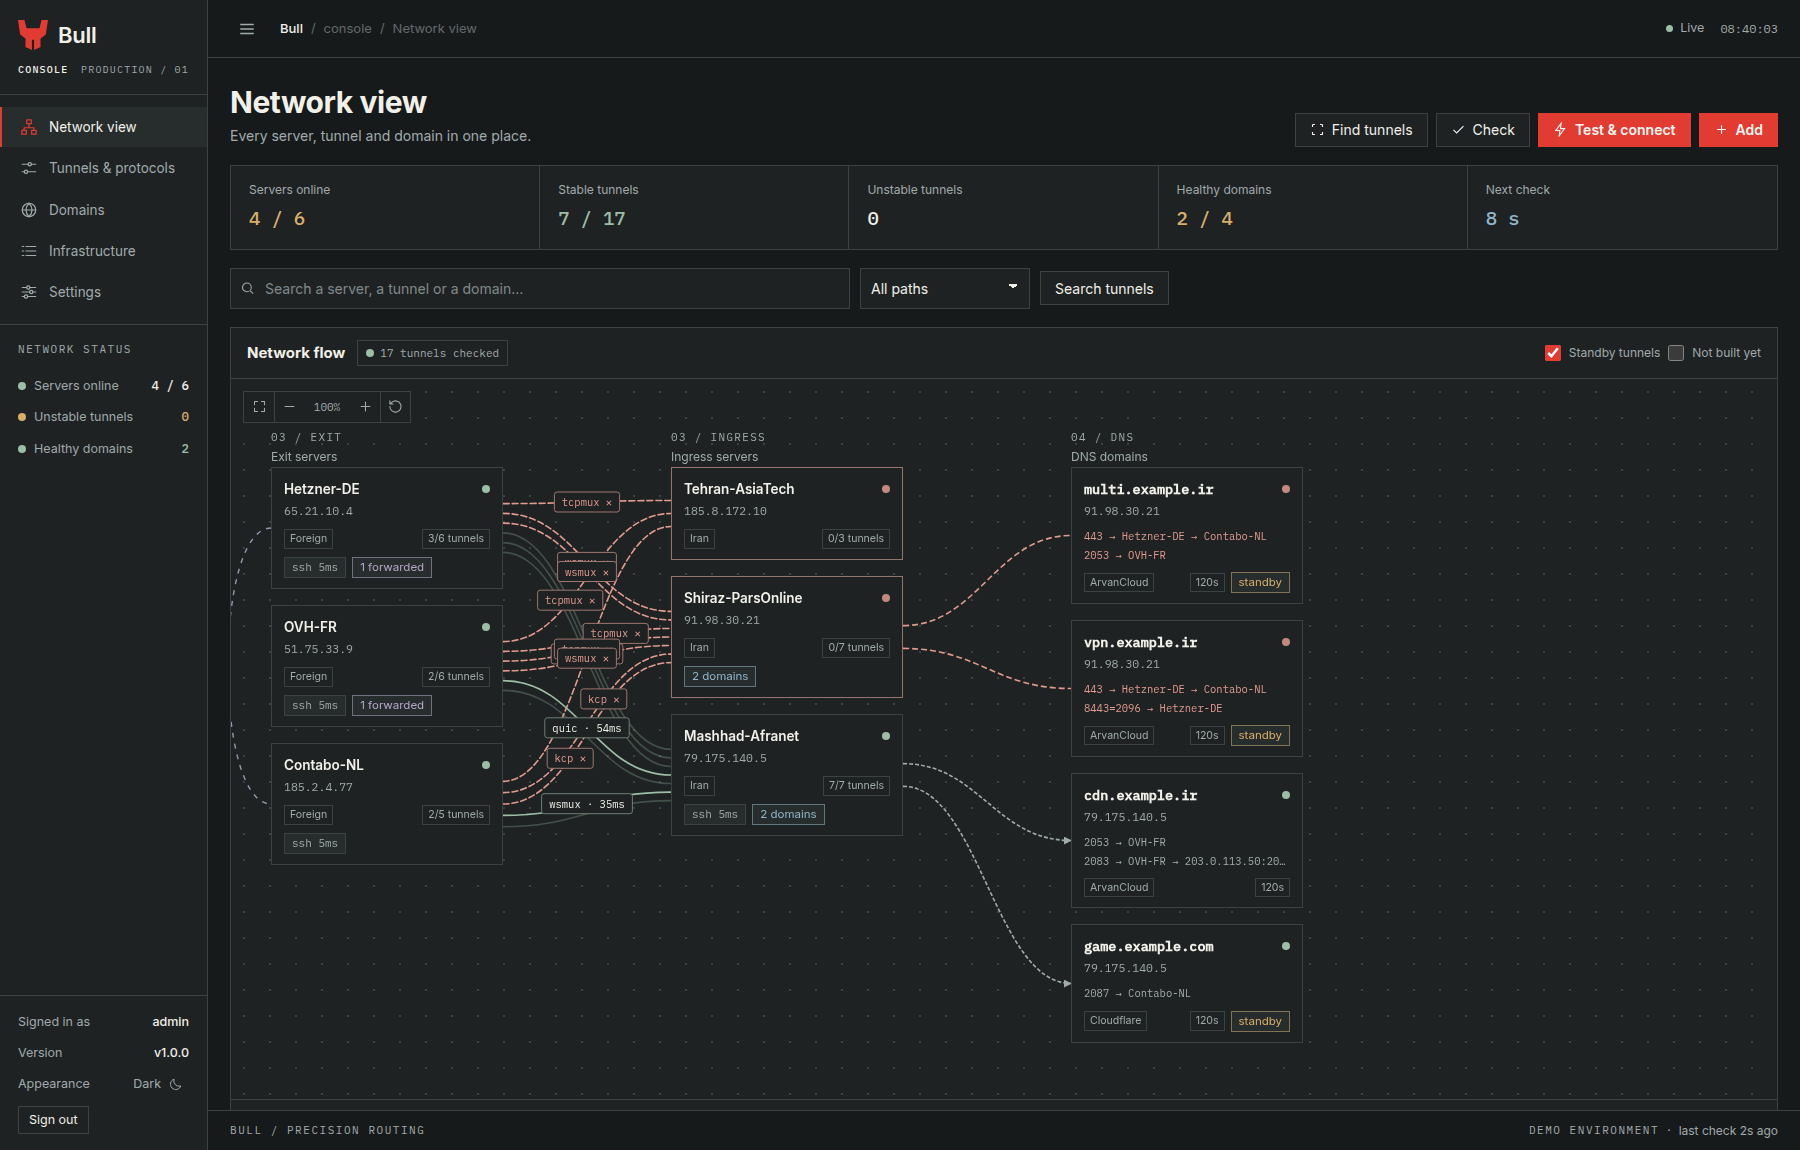
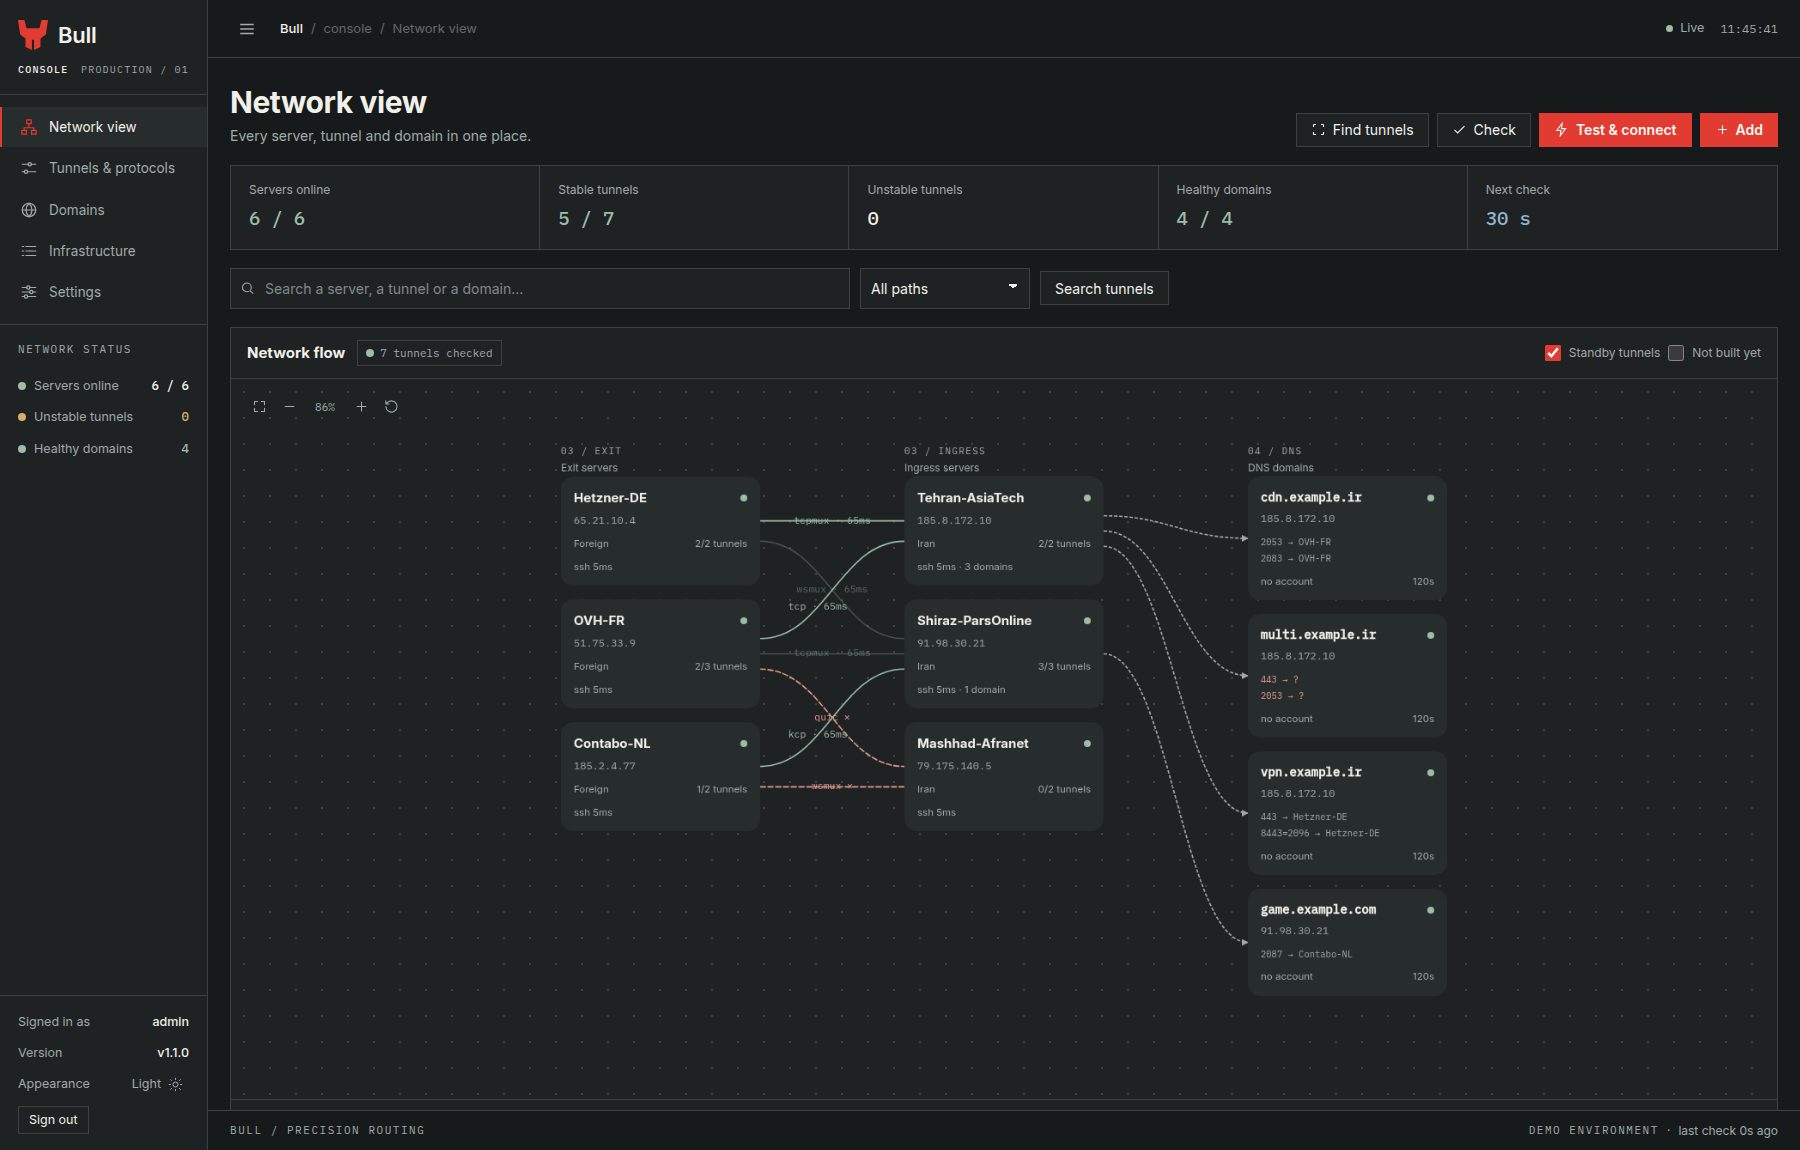
panel: the network graph is the type-1 design again
The graph of the network view is built from new-ui/type1/graphs.svg, in
the type-2 palette. The shell of the panel is type 2 — the sidebar, the
cards of the pages, the counters, the type scale — and the graph is the
one place where the older, softer shape is kept: a graph of moving nodes
reads better with soft cards than with sharp ones.

  * The cards are soft again: a rounded card with the name, the address
    and a quiet line of meta, the state dot in its corner, and a soft tint
    on the card that is picked and on the ones the path goes through. The
    rows of chips are gone: the meta is text, the way the type-1 card
    has it.
  * The labels on the wires are plain text in the colour of the state,
    dimmed for the standby tunnels; the wire that is picked gets a pill
    around its label, as in the type-1 design.
  * Every wire carries its label now, the healthy ones included.
  * The zoom tools sit on the canvas, plain, in a row.

The screenshots in docs/ were taken again.

diff --git a/bulltunnel/static/style.css b/bulltunnel/static/style.css
@@ -419,28 +419,37 @@ legend { color: var(--muted); font-size: 12px; padding: 0 6px; }
 .flow-cols .ct .n { font-family: var(--mono); font-size: 11px; letter-spacing: .12em; color: var(--muted); }
 .flow-cols .ct .t { display: block; }
 
+/* The cards of the graph follow the type-1 design (new-ui/type1/graphs.svg):
+   a soft, rounded card with the name, the address and a quiet line of meta.
+   The shell of the panel is type 2; the graph is the one place where the
+   older, softer shape is kept. */
 .fnode {
   position: absolute; width: 232px;
-  background: var(--surface); border: 1px solid var(--line);
-  padding: 10px 12px; display: grid; gap: 2px; cursor: pointer; overflow: hidden;
+  background: var(--surface-2); border: 1px solid transparent;
+  border-radius: 14px; padding: 12px 14px;
+  display: grid; gap: 3px; cursor: pointer; overflow: hidden;
   transition: border-color .12s, opacity .15s, background .12s;
 }
-.fnode:hover { border-color: var(--muted); }
-.fnode.sel { border-color: var(--brand); box-shadow: inset 0 0 0 1px var(--brand); }
+.fnode:hover { border-color: var(--line); }
+/* the card that is picked, and the ones the path goes through, are tinted:
+   a soft colour, never a border of another colour */
+.fnode.sel { border-color: color-mix(in srgb, var(--brand) 35%, transparent); background: color-mix(in srgb, var(--brand) 9%, var(--surface-2)); }
+.fnode.hl { border-color: color-mix(in srgb, var(--brand) 25%, transparent); background: color-mix(in srgb, var(--brand) 5%, var(--surface-2)); }
 .fnode .r1 { display: flex; align-items: center; gap: 8px; }
-.fnode .nm { font-weight: 600; font-size: 13.5px; overflow: hidden; text-overflow: ellipsis; white-space: nowrap; flex: 1; }
-.fnode .ip { font-family: var(--mono); font-size: 11.5px; color: var(--muted); }
-.fnode .r3 { display: flex; align-items: center; gap: 6px; margin-top: 6px; flex-wrap: wrap; }
-.fnode .routes { display: grid; gap: 1px; margin-top: 5px; }
+.fnode .nm { font-weight: 650; font-size: 15px; overflow: hidden; text-overflow: ellipsis; white-space: nowrap; flex: 1; }
+.fnode .ip { font-family: var(--mono); font-size: 12px; color: var(--muted); }
+.fnode .r3 { display: flex; align-items: center; gap: 8px; margin-top: 5px; flex-wrap: wrap; }
+.fnode .routes { display: grid; gap: 2px; margin-top: 6px; }
 .fnode .route { font-family: var(--mono); font-size: 10.5px; color: var(--muted); overflow: hidden; text-overflow: ellipsis; white-space: nowrap; }
 .fnode .route.bad { color: var(--down); }
 .fnode .route.muted { opacity: .7; }
-.fnode .role { font-size: 10.5px; color: var(--muted); border: 1px solid var(--line); padding: 0 5px; white-space: nowrap; }
-.fnode .role.right { margin-left: auto; }
-.fnode.dead { border-color: color-mix(in srgb, var(--down) 55%, var(--line)); }
+/* the meta of a card is quiet text, not a row of chips */
+.fnode .role { font-size: 11.5px; color: var(--muted); white-space: nowrap; }
+.fnode .meta { font-size: 11.5px; color: var(--muted); margin-left: auto; white-space: nowrap; }
+.fnode.dead { background: color-mix(in srgb, var(--down) 12%, var(--surface-2)); }
 .fnode.dim { opacity: .28; }
 .flow-world.focus .fnode:not(.hl) { opacity: .26; }
-.fnode.domain .nm { font-family: var(--mono); }
+.fnode.domain .nm { font-family: var(--mono); font-size: 14px; }
 
 /* wires: the notation of the type-2 guide */
 .wire { fill: none; stroke-width: 1.6; stroke-linecap: round; }
@@ -464,20 +473,24 @@ legend { color: var(--muted); font-size: 12px; padding: 0 6px; }
 .xwire.down { stroke: var(--down); }
 .hit { fill: none; stroke: transparent; stroke-width: 14; pointer-events: stroke; cursor: pointer; }
 @keyframes dash { to { stroke-dashoffset: -24; } }
+/* The labels on the wires: a pill for the wire that is picked, plain text
+   for the others — the type-1 design. */
 .wlabel { pointer-events: all; cursor: pointer; }
-.wlabel rect { fill: var(--surface); stroke: var(--line); }
-.wlabel text { font-family: var(--mono); font-size: 10.5px; fill: var(--text); }
-.wlabel.sel rect { stroke: var(--brand); fill: color-mix(in srgb, var(--brand) 12%, var(--surface)); }
+.wlabel text { font-family: var(--mono); font-size: 11.5px; fill: var(--text); }
+.wlabel rect { fill: var(--surface-2); stroke: var(--line); }
+.wlabel.sel rect { fill: color-mix(in srgb, var(--brand) 16%, var(--surface-2)); stroke: color-mix(in srgb, var(--brand) 55%, var(--line)); }
 .wlabel.sel text { fill: var(--brand); }
-.wlabel.up rect { stroke: color-mix(in srgb, var(--ok) 50%, var(--line)); }
-.wlabel.down rect { stroke: color-mix(in srgb, var(--down) 60%, var(--line)); }
-.wlabel.down text { fill: var(--down); }
-.wlabel.degraded rect { stroke: color-mix(in srgb, var(--degraded) 60%, var(--line)); }
-.wlabel.degraded text { fill: var(--degraded); }
-.wlabel.testing rect { stroke: color-mix(in srgb, var(--testing) 60%, var(--line)); }
-.wlabel.testing text { fill: var(--testing); }
-.wlabel.handover rect { stroke: color-mix(in srgb, var(--forward) 60%, var(--line)); }
-.wlabel.handover text { fill: var(--forward); }
+.wlabel.plain.up text { fill: var(--ok); }
+.wlabel.plain.down text { fill: var(--down); }
+.wlabel.plain.degraded text { fill: var(--degraded); }
+.wlabel.plain.testing text { fill: var(--testing); }
+.wlabel.plain.handover text { fill: var(--forward); }
+.wlabel.plain.hop text { fill: var(--forward); }
+.wlabel.plain.hop.down text { fill: var(--down); }
+.wlabel.plain.standby { opacity: .45; }
+.wlabel.plain text { fill: var(--muted); }
+.wlabel:hover rect { stroke: var(--text); }
+.wlabel:hover.plain text { fill: var(--text); }
 /* a forwarded port: the wire of a port that leaves from one server and
    arrives at another */
 .wlabel.hop rect { stroke: color-mix(in srgb, var(--forward) 55%, var(--line)); }
@@ -486,11 +499,12 @@ legend { color: var(--muted); font-size: 12px; padding: 0 6px; }
 .wlabel.hop.down text { fill: var(--down); }
 .wlabel:hover rect { stroke: var(--text); }
 
-.flow-tools { position: absolute; left: 12px; top: 12px; display: flex; align-items: center; border: 1px solid var(--line); background: var(--surface); }
-.flow-tools button { width: 30px; height: 30px; display: grid; place-items: center; color: var(--muted); cursor: pointer; }
+/* The zoom tools sit on the canvas, plain, the way the type-1 design has
+   them: a fit, a smaller, the size, a bigger, a reset. */
+.flow-tools { position: absolute; left: 14px; top: 14px; display: flex; align-items: center; gap: 2px; }
+.flow-tools button { width: 28px; height: 28px; display: grid; place-items: center; color: var(--muted); cursor: pointer; background: none; border: 0; border-radius: 8px; }
 .flow-tools button:hover { color: var(--text); background: var(--surface-2); }
-.flow-tools button + button { border-left: 1px solid var(--line); }
-.flow-tools .zv { font-family: var(--mono); font-size: 11px; color: var(--muted); min-width: 46px; text-align: center; }
+.flow-tools .zv { font-family: var(--mono); font-size: 11px; color: var(--muted); min-width: 40px; text-align: center; }
 .flow-tools svg { width: 15px; height: 15px; stroke: currentColor; fill: none; stroke-width: 1.7; stroke-linecap: round; stroke-linejoin: round; }
 
 .flow-legend { display: flex; align-items: center; gap: 16px; flex-wrap: wrap; font-size: 11.5px; color: var(--muted); }

diff --git a/bulltunnel/static/app.js b/bulltunnel/static/app.js
@@ -429,27 +429,34 @@ function fit() {
   applyView();
 }
 
+/* The card of a server, in the shape of the type-1 design
+   (new-ui/type1/graphs.svg): the name with its dot, the address, and a quiet
+   line of meta. The panel around it is type 2; the graph is the one place
+   where the older, softer card is kept. */
 function nodeCard(s) {
   const st = s.status;
   const links = S.links.filter((l) => l.status !== "pending" && (l.iran_id === s.id || l.kharej_id === s.id));
   const up = links.filter((l) => l.status === "up").length;
   const meta = [];
-  if (s.ssh_latency_ms != null) meta.push(`<span class="chip mono">ssh ${ms(s.ssh_latency_ms)}</span>`);
+  if (s.ssh_latency_ms != null) meta.push(`ssh ${ms(s.ssh_latency_ms)}`);
   if (s.role === "kharej") {
     const ex = serverExits(s.id);
-    if (ex.length) meta.push(`<span class="chip ${ex.some(exitBad) ? "bad" : "purple"}" title="${esc(ex.map((e) => `${e.port} → ${exitText(e)} (${e.method})`).join("\n"))}">${ex.length} forwarded</span>`);
+    if (ex.length) {
+      meta.push(`<span title="${esc(ex.map((e) => `${e.port} → ${exitText(e)} (${e.method})`).join("\n"))}">${ex.length} forwarded</span>`);
+    }
   }
   if (s.role === "iran") {
     const doms = S.domains.filter((d) => d.iran_id === s.id).length;
-    if (doms) meta.push(`<span class="chip info">${doms} domain${doms > 1 ? "s" : ""}</span>`);
+    if (doms) meta.push(`${doms} domain${doms > 1 ? "s" : ""}`);
   }
+  const role = s.role === "iran" ? "Iran" : "Foreign";
   return {
     cls: ["fnode", st === "offline" ? "dead" : "", s.enabled ? "" : "dim"].join(" "),
     html: `<div class="r1"><span class="nm">${esc(s.name)}</span><span class="dot ${st}"></span></div>
       <div class="ip">${esc(s.ip)}</div>
-      <div class="r3"><span class="role">${s.role === "iran" ? "Iran" : "Foreign"}</span>
-      <span class="role right">${up}/${links.length} tunnels</span></div>
-      ${meta.length ? `<div class="r3">${meta.join("")}</div>` : ""}`,
+      <div class="r3"><span class="role">${role}</span>
+      <span class="meta">${up}/${links.length} tunnels</span></div>
+      ${meta.length ? `<div class="r3"><span class="meta" style="margin-left:0">${meta.join(" · ")}</span></div>` : ""}`,
   };
 }
 
@@ -464,17 +471,17 @@ function domainCard(d) {
   }).join("");
   const more = (d.routes || []).length - routes.length;
   const flags = [];
-  if (d.iran_id && d.primary_iran && d.iran_id !== d.primary_iran) flags.push(`<span class="chip warn">standby</span>`);
-  if (d.pending_ip) flags.push(`<span class="chip warn">awaiting DNS</span>`);
-  if (!d.auto_failover) flags.push(`<span class="chip">manual</span>`);
-  if (d.error) flags.push(`<span class="chip bad" title="${esc(d.error)}">error</span>`);
+  if (d.iran_id && d.primary_iran && d.iran_id !== d.primary_iran) flags.push("standby");
+  if (d.pending_ip) flags.push("awaiting DNS");
+  if (!d.auto_failover) flags.push("manual");
+  if (d.error) flags.push(`<span title="${esc(d.error)}">error</span>`);
   return {
     cls: "fnode domain",
     html: `<div class="r1"><span class="nm">${esc(d.fqdn)}</span><span class="dot ${d.status}"></span></div>
       <div class="ip">${esc(d.current_ip || "—")}</div>
       ${lines ? `<div class="routes">${lines}${more > 0 ? `<span class="route muted">+${more} more</span>` : ""}</div>` : ""}
       <div class="r3"><span class="role">${p ? (p.kind === "cloudflare" ? "Cloudflare" : "ArvanCloud") : "no account"}</span>
-      <span class="role right">${d.ttl}s</span>${flags.join("")}</div>`,
+      <span class="meta">${d.ttl}s${flags.length ? " · " + flags.join(" · ") : ""}</span></div>`,
   };
 }
 
@@ -635,6 +642,20 @@ function drawWiresNow() {
     }
     return bezAt(c.p, 0.5);
   };
+  /* The label of a wire: a pill when the wire is the one that is picked,
+     plain text on the canvas for the others — the type-1 design
+     (new-ui/type1/graphs.svg). */
+  const wireLabel = (txt, x, y, cls, attrs, pill) => {
+    const w = txt.length * 6.6;
+    if (!pill) {
+      return `<g class="wlabel plain ${cls}" ${attrs} transform="translate(${x.toFixed(1)},${y.toFixed(1)})">`
+        + `<text x="0" y="0" text-anchor="middle" dominant-baseline="middle">${esc(txt)}</text></g>`;
+    }
+    const pw = w + 22;
+    return `<g class="wlabel ${cls}" ${attrs} transform="translate(${(x - pw / 2).toFixed(1)},${(y - 11).toFixed(1)})">`
+      + `<rect width="${pw.toFixed(1)}" height="22" rx="11"/>`
+      + `<text x="${(pw / 2).toFixed(1)}" y="15" text-anchor="middle">${esc(txt)}</text></g>`;
+  };
   for (const e of edges) {
     const x1 = e.dir1 > 0 ? e.a.x + e.a.w : e.a.x;
     const x2 = e.dir2 > 0 ? e.b.x + e.b.w : e.b.x;
@@ -643,9 +664,9 @@ function drawWiresNow() {
       const hop = `${e.from}|${e.to}`;
       parts.push(`<path class="xwire ${e.g.bad ? "down" : ""}" d="${c.d}" data-hop="${hop}"/>`);
       const txt = `↪ ${e.g.ports.join(",")} · ${[...e.g.methods].join("/")}${e.g.bad ? " ✕" : ""}`;
-      const w = txt.length * 6.4 + 14;
+      const w = txt.length * 6.6;
       const [lx, ly] = e.loop ? ((p) => [p[0] - w / 2 - 4, p[1]])(bezAt(c.p, 0.5)) : placeLabel(c, w);
-      labels.push(`<g class="wlabel hop ${e.g.bad ? "down" : ""}" data-hop="${hop}" transform="translate(${(lx - w / 2).toFixed(1)},${(ly - 10).toFixed(1)})"><rect width="${w.toFixed(1)}" height="20" rx="2.5"/><text x="${(w / 2).toFixed(1)}" y="14" text-anchor="middle">${esc(txt)}</text></g>`);
+      labels.push(wireLabel(txt, lx, ly, `hop ${e.g.bad ? "down" : ""}`, `data-hop="${hop}"`, false));
     } else if (e.kind === "link") {
       const l = e.l;
       const moved = handedOver(l) && e.st === "up";
@@ -653,14 +674,14 @@ function drawWiresNow() {
       const cls = `wire ${moved ? "handover" : e.st}${sel ? " sel" : ""}${e.standby ? " standby" : ""}`;
       parts.push(`<path class="${cls}" d="${c.d}" data-link="${l.id}"/>`);
       parts.push(`<path class="hit" d="${c.d}" data-link="${l.id}"/>`);
-      if (e.standby) continue;
       let txt;
       if (e.st === "testing") txt = "testing…";
       else if (moved) txt = `${l.transport} · ports moved`;
       else txt = `${l.transport || "—"}${e.st === "up" && l.latency_ms != null ? ` · ${Math.round(l.latency_ms)}ms` : e.st === "down" ? " ✕" : ""}${isFlapping(l) ? " ⚡" : ""}`;
-      const w = txt.length * 6.4 + 14;
+      const w = txt.length * 6.6;
       const [lx, ly] = placeLabel(c, w);
-      labels.push(`<g class="wlabel ${moved ? "handover" : e.st}${sel ? " sel" : ""}" data-link="${l.id}" transform="translate(${(lx - w / 2).toFixed(1)},${(ly - 10).toFixed(1)})"><rect width="${w.toFixed(1)}" height="20" rx="2.5"/><text x="${(w / 2).toFixed(1)}" y="14" text-anchor="middle">${esc(txt)}</text></g>`);
+      labels.push(wireLabel(txt, lx, ly, `${moved ? "handover" : e.st}${sel ? " sel" : ""}${e.standby ? " standby" : ""}`,
+        `data-link="${l.id}"`, sel));
     } else {
       const d = e.d;
       parts.push(`<path class="dwire ${d.pending_ip ? "pending-dns" : d.status}" d="${c.d}" data-domain="${d.id}"/>`);

diff --git a/TODO.md b/TODO.md
@@ -328,6 +328,25 @@ to exist before a fresh installation can install the engine.
   architectures, measures all nine carriers against a real tunnel and does
   not disturb the tunnel that is carrying the traffic.
 
+### Commit 9 — the network graph follows the type-1 design  ✅ done
+
+The graph of the network view is built from `new-ui/type1/graphs.svg`, in
+the type-2 palette. The shell stays type 2; the graph is the one place
+where the older, softer shape is kept.
+
+* ✅ The cards are soft again: a rounded card, the name, the address, a
+  quiet line of meta, the state dot in the corner, and a soft tint on the
+  card that is picked and on the ones the path goes through. The rows of
+  chips are gone.
+* ✅ The labels on the wires are plain text in the colour of the state, and
+  the wire that is picked gets a pill around its label.
+* ✅ Every wire carries its label, the healthy ones included.
+* ✅ The zoom tools sit on the canvas, plain, in a row.
+* ✅ The screenshots in `docs/` were taken again.
+
+**Findings closed by this commit:** the graph that was built from the type-2
+design instead of the type-1 one.
+
 ---
 
 ## 3. Status
@@ -342,11 +361,12 @@ to exist before a fresh installation can install the engine.
 | 6 | Tests, docs, changelog | done |
 | 7 | The rename and the management tool | done |
 | 8 | The release | done |
+| 9 | The network graph follows the type-1 design | done |
 
-**All the findings of the audit are closed.** The plan is finished; what
-follows is the work itself: watching the panel on a live server, and the
-rewrite of the dashboard in Go, for which the state of the API is now
-complete and self-describing.
+**All the findings of the audit are closed, and the graph is the type-1
+design.** What is left is the work itself: watching the panel on a live
+server, and the rewrite of the dashboard in Go, for which the state of the
+API is now complete and self-describing.
 
 ### What is left to do, and is not a fault
 
@@ -372,6 +392,7 @@ complete and self-describing.
   under the race detector — the same tests fail the same way in the
   BackPack repository itself, which is where the code comes from. The CI
   skips them there and runs them on their own, without the detector.
+
 
 
 

diff --git a/CHANGELOG.md b/CHANGELOG.md
@@ -7,6 +7,27 @@ only adds something.
 
 ## Unreleased
 
+### The network graph follows the type-1 design
+
+The graph of the network view is built from the type-1 design
+(`new-ui/type1/graphs.svg`), in the type-2 palette. The shell of the panel
+is type 2 — the sidebar, the cards of the pages, the counters, the type
+scale — and the graph is the one place where the older, softer shape is
+kept, because a graph of moving nodes reads better with soft cards than
+with sharp ones.
+
+- **The cards are soft again.** A rounded card with a quiet line of meta
+  under the address, the state dot in its corner, and a soft tint on the
+  card that is picked and on the ones the path goes through. The rows of
+  chips are gone: the meta is text, the way the type-1 card has it.
+- **The labels on the wires are plain text**, in the colour of the state,
+  dimmed for the standby tunnels. The wire that is picked gets a pill
+  around its label, as in the type-1 design.
+- **The zoom tools sit on the canvas**, plain, in a row: a fit, a smaller,
+  the size, a bigger, a reset.
+- Every wire carries its label now, the healthy ones included — the type-1
+  graph names every path it draws.
+
 ### bull-Tunnel, and a management tool
 
 The project is **bull-Tunnel** now, and it has a **management command**
